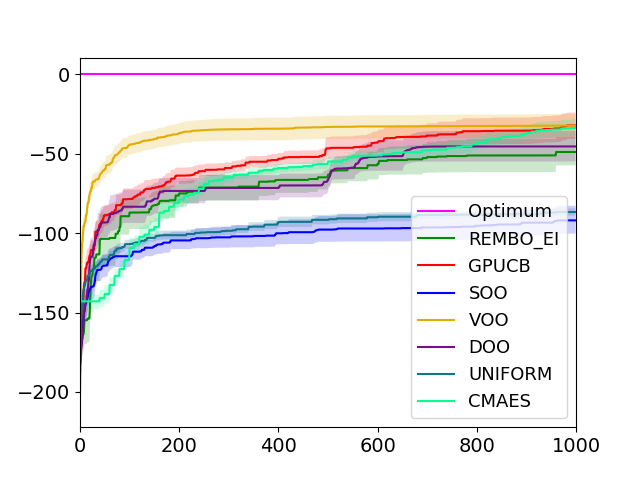
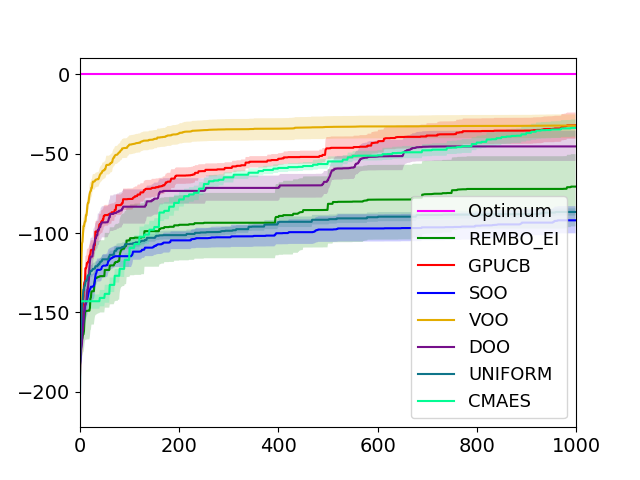
changing default low dim

Changed region(s): [[0.125, 0.2812, 0.9062, 0.6875]]

diff --git a/test_scripts/test_optimization_algorithms.py b/test_scripts/test_optimization_algorithms.py
@@ -480,9 +480,9 @@ def main():
             evaled_x, evaled_y, max_y, time_taken = algorithm(epsilon, save_dir)
         elif 'rembo' in algo_name:
             if dim_x == 10:
-                low_dim = 3
+                low_dim = 2
             elif dim_x == 20:
-                low_dim = 6
+                low_dim = 3
             else:
                 raise NotImplementedError
             evaled_x, evaled_y, max_y, time_taken = algorithm(epsilon, low_dim, save_dir)

diff --git a/generators/gpucb_utils/bo.py b/generators/gpucb_utils/bo.py
@@ -13,7 +13,7 @@ class BO(object):
         self.opt_n = opt_n
 
     def choose_next_point(self, evaled_x, evaled_y):
-        update_hyper_params = len(evaled_x) % 10 == 0
+        update_hyper_params = len(evaled_x) % 50 == 0
         self.model.update(evaled_x, evaled_y, update_hyper_params)
         x, acq_fcn_val = helper.global_minimize(self.acq_fcn,
                                                 self.acq_fcn.fg,
